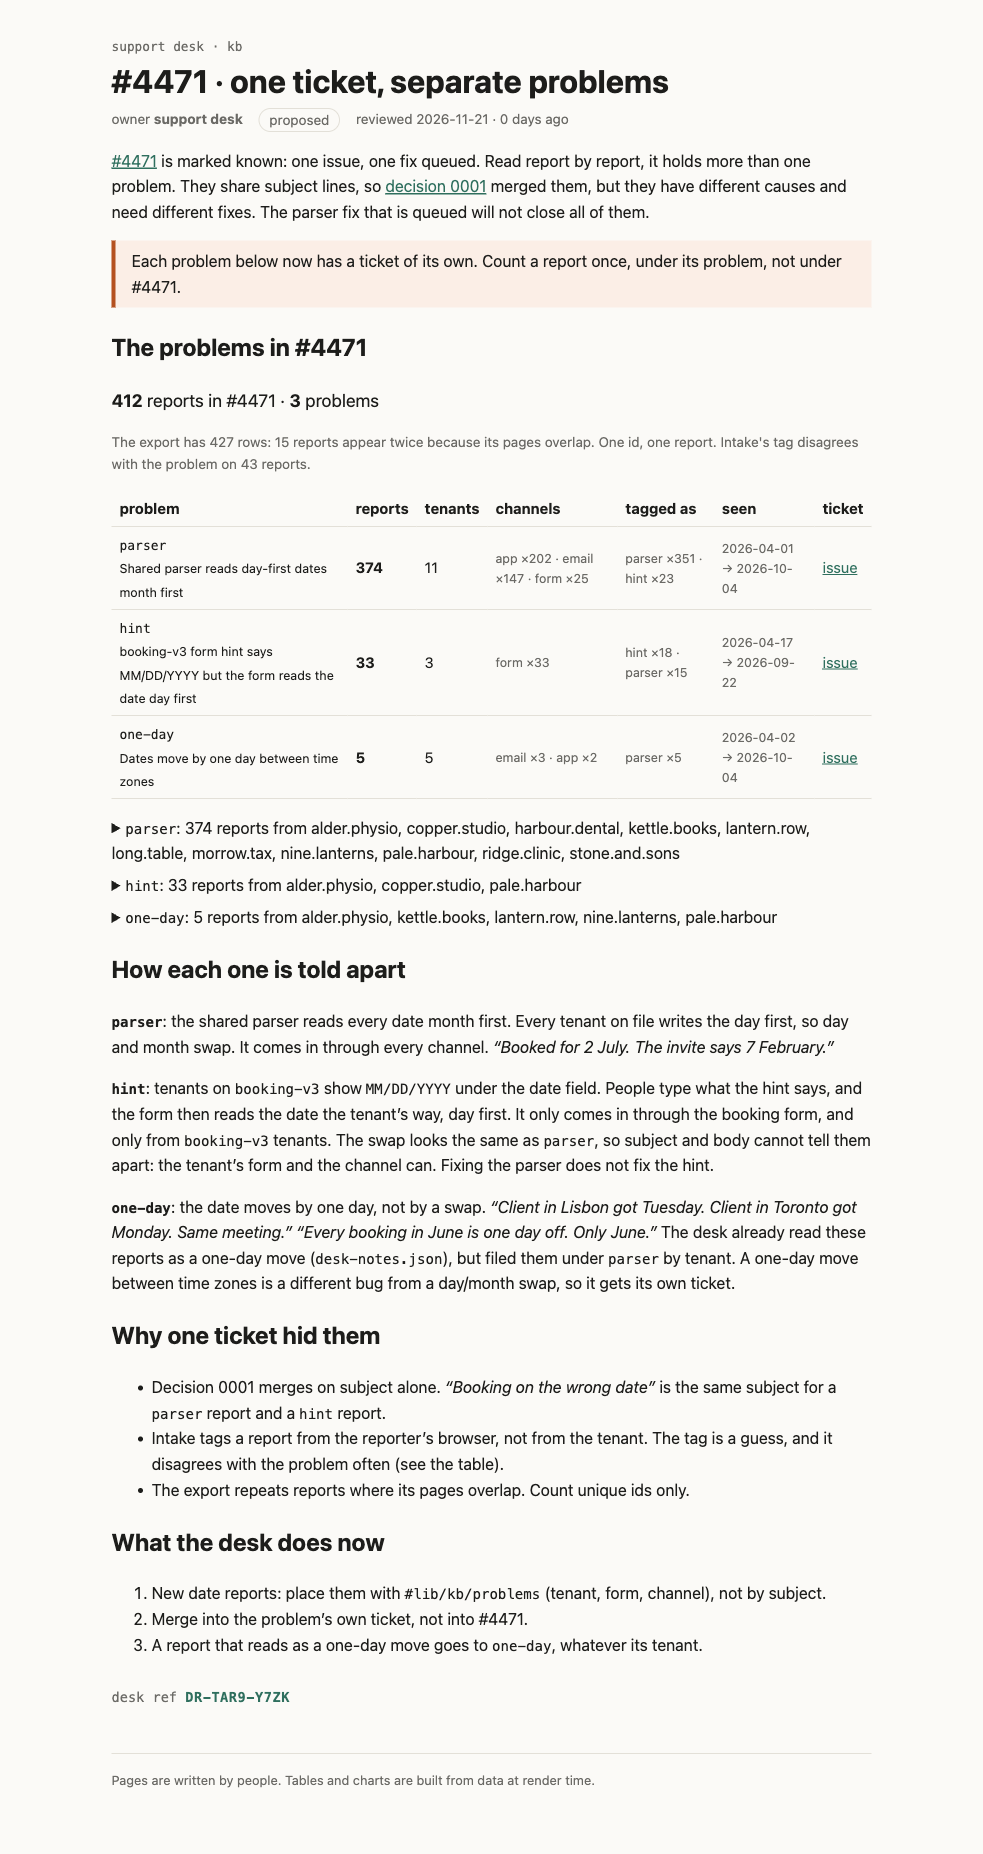
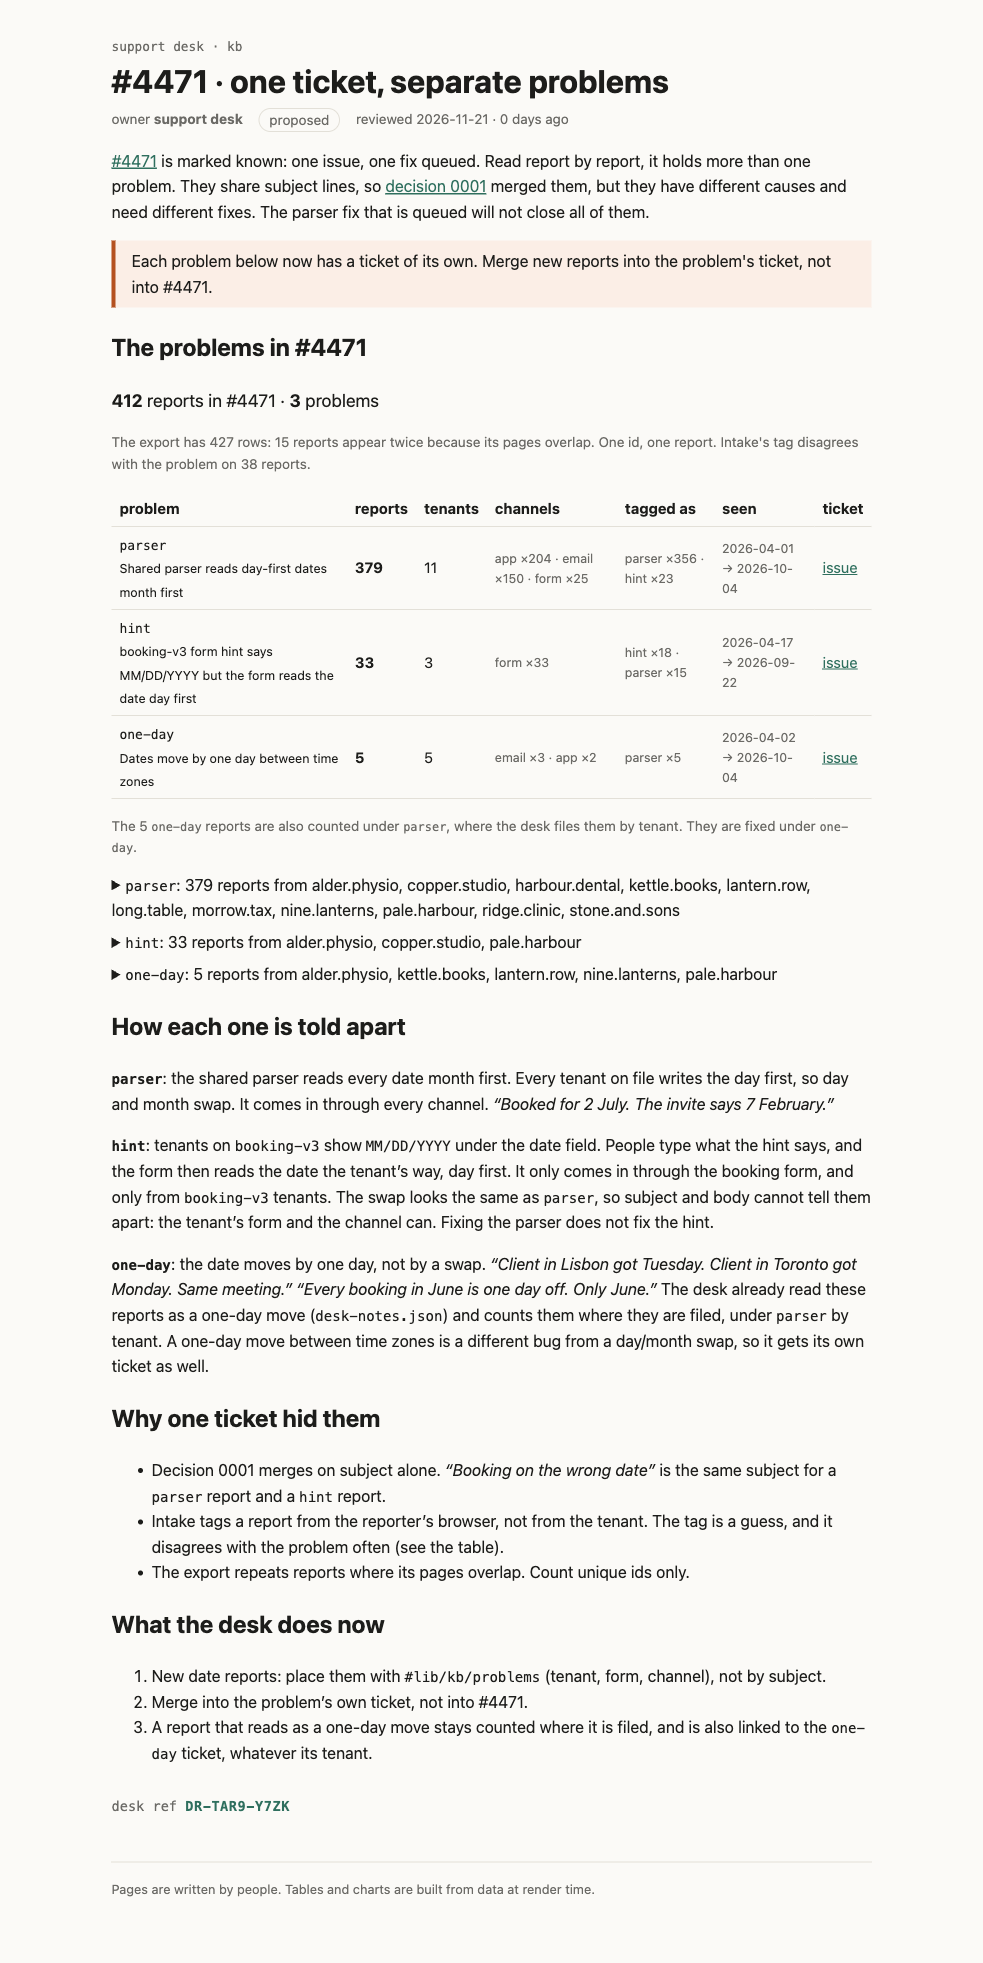
Count the one-day reports where the desk files them
The desk's own view counts the five one-day reports under parser by tenant
and footnotes them, so parser covers 379 and one-day lists the same five.

diff --git a/desk-view/kb/incidents/4471-split.html b/desk-view/kb/incidents/4471-split.html
@@ -25,8 +25,9 @@
   <body>
     <div style="display: contents"><!--[--><!--[0--><!--[--><!--[--><div class="kb svelte-e2jw2j"><header><a class="crumb svelte-e2jw2j" href="https://github.com/aXenDeveloper/s01e03-what-it-shows/tree/main/src/routes/kb">support desk · kb</a> <h1 class="svelte-e2jw2j">#4471 · one ticket, separate problems</h1> <p class="meta svelte-e2jw2j"><span>owner <b>support desk</b></span> <span class="status proposed svelte-e2jw2j">proposed</span> <span class="svelte-e2jw2j">reviewed 2026-11-21 · 0 days ago</span></p></header> <!--[-1--><!--]--> <main><p><a href="https://github.com/aXenDeveloper/s01e03-what-it-shows/tree/main/src/routes/kb/incidents/4471">#4471</a> is marked known: one issue, one fix queued. Read report by report, it holds
 more than one problem. They share subject lines, so <a href="https://github.com/aXenDeveloper/s01e03-what-it-shows/tree/main/src/routes/kb/decisions/0001-dedupe-by-subject">decision 0001</a> merged them, but they have different causes and need different fixes. The parser fix that is queued
-will not close all of them.</p> <aside class="warn svelte-17bri61"><!---->Each problem below now has a ticket of its own. Count a report once, under its problem, not under #4471.<!----></aside><!----> <h2>The problems in #4471</h2> <p class="sum svelte-1op6c6"><strong>412</strong> reports in #4471 · <strong>3</strong> problems</p> <p class="note svelte-1op6c6">The export has 427 rows: 15 reports appear twice because its pages overlap. One id, one report.
-  Intake's tag disagrees with the problem on 43 reports.</p> <table><thead><tr><th>problem</th><th>reports</th><th>tenants</th><th>channels</th><th>tagged as</th><th>seen</th><th>ticket</th></tr></thead><tbody><!--[--><tr><td><code>parser</code><br/><span class="title svelte-1op6c6">Shared parser reads day-first dates month first</span></td><td><strong>374</strong></td><td>11</td><td class="muted svelte-1op6c6">app ×202 · email ×147 · form ×25</td><td class="muted svelte-1op6c6">parser ×351 · hint ×23</td><td class="muted svelte-1op6c6">2026-04-01 → 2026-10-04</td><td><!--[0--><a href="https://github.com/aXenDeveloper/s01e03-what-it-shows/issues/1">issue</a><!--]--></td></tr><tr><td><code>hint</code><br/><span class="title svelte-1op6c6">booking-v3 form hint says MM/DD/YYYY but the form reads the date day first</span></td><td><strong>33</strong></td><td>3</td><td class="muted svelte-1op6c6">form ×33</td><td class="muted svelte-1op6c6">hint ×18 · parser ×15</td><td class="muted svelte-1op6c6">2026-04-17 → 2026-09-22</td><td><!--[0--><a href="https://github.com/aXenDeveloper/s01e03-what-it-shows/issues/2">issue</a><!--]--></td></tr><tr><td><code>one-day</code><br/><span class="title svelte-1op6c6">Dates move by one day between time zones</span></td><td><strong>5</strong></td><td>5</td><td class="muted svelte-1op6c6">email ×3 · app ×2</td><td class="muted svelte-1op6c6">parser ×5</td><td class="muted svelte-1op6c6">2026-04-02 → 2026-10-04</td><td><!--[0--><a href="https://github.com/aXenDeveloper/s01e03-what-it-shows/issues/3">issue</a><!--]--></td></tr><!--]--></tbody></table> <!--[--><details class="svelte-1op6c6"><summary><code>parser</code>: 374 reports from alder.physio, copper.studio, harbour.dental, kettle.books, lantern.row, long.table, morrow.tax, nine.lanterns, pale.harbour, ridge.clinic, stone.and.sons</summary> <p class="ids svelte-1op6c6">R-41200 R-41201 R-41203 R-41204 R-41205 R-41206 R-41208 R-41210 R-41211 R-41212 R-41213 R-41214 R-41215 R-41216 R-41217 R-41218 R-41219 R-41220 R-41221 R-41222 R-41223 R-41224 R-41225 R-41227 R-41228 R-41229 R-41231 R-41232 R-41233 R-41234 R-41235 R-41237 R-41238 R-41239 R-41240 R-41242 R-41243 R-41244 R-41245 R-41246 R-41247 R-41248 R-41249 R-41250 R-41252 R-41253 R-41254 R-41255 R-41256 R-41257 R-41258 R-41260 R-41261 R-41263 R-41264 R-41265 R-41266 R-41267 R-41268 R-41269 R-41270 R-41271 R-41272 R-41273 R-41274 R-41276 R-41277 R-41278 R-41279 R-41280 R-41281 R-41282 R-41283 R-41284 R-41285 R-41286 R-41287 R-41288 R-41289 R-41290 R-41291 R-41292 R-41293 R-41295 R-41296 R-41297 R-41298 R-41299 R-41300 R-41301 R-41302 R-41303 R-41304 R-41306 R-41309 R-41310 R-41311 R-41312 R-41313 R-41314 R-41315 R-41316 R-41317 R-41318 R-41319 R-41320 R-41321 R-41322 R-41323 R-41324 R-41325 R-41327 R-41328 R-41329 R-41330 R-41331 R-41332 R-41333 R-41334 R-41335 R-41336 R-41337 R-41338 R-41339 R-41340 R-41341 R-41342 R-41343 R-41345 R-41346 R-41347 R-41348 R-41349 R-41350 R-41351 R-41352 R-41353 R-41354 R-41355 R-41356 R-41357 R-41358 R-41359 R-41360 R-41361 R-41362 R-41363 R-41364 R-41365 R-41367 R-41368 R-41369 R-41370 R-41371 R-41373 R-41374 R-41375 R-41376 R-41377 R-41378 R-41379 R-41380 R-41381 R-41382 R-41383 R-41385 R-41386 R-41388 R-41389 R-41390 R-41391 R-41392 R-41393 R-41394 R-41395 R-41397 R-41398 R-41399 R-41401 R-41402 R-41403 R-41404 R-41405 R-41408 R-41409 R-41410 R-41411 R-41412 R-41413 R-41414 R-41417 R-41419 R-41420 R-41421 R-41422 R-41423 R-41424 R-41425 R-41427 R-41429 R-41430 R-41431 R-41432 R-41433 R-41434 R-41435 R-41436 R-41437 R-41438 R-41440 R-41442 R-41443 R-41444 R-41445 R-41446 R-41447 R-41448 R-41450 R-41451 R-41452 R-41454 R-41455 R-41457 R-41458 R-41459 R-41461 R-41462 R-41463 R-41464 R-41465 R-41466 R-41467 R-41468 R-41469 R-41470 R-41471 R-41473 R-41474 R-41475 R-41476 R-41477 R-41478 R-41479 R-41480 R-41481 R-41482 R-41483 R-41484 R-41486 R-41487 R-41488 R-41489 R-41490 R-41491 R-41492 R-41494 R-41495 R-41496 R-41497 R-41498 R-41499 R-41500 R-41501 R-41502 R-41503 R-41504 R-41505 R-41506 R-41508 R-41509 R-41510 R-41511 R-41512 R-41513 R-41514 R-41515 R-41516 R-41517 R-41518 R-41519 R-41520 R-41521 R-41522 R-41523 R-41524 R-41525 R-41527 R-41528 R-41529 R-41530 R-41531 R-41532 R-41533 R-41534 R-41535 R-41536 R-41537 R-41538 R-41540 R-41541 R-41542 R-41543 R-41544 R-41545 R-41546 R-41547 R-41548 R-41549 R-41550 R-41551 R-41552 R-41553 R-41554 R-41555 R-41556 R-41557 R-41558 R-41559 R-41560 R-41561 R-41562 R-41563 R-41564 R-41565 R-41566 R-41567 R-41568 R-41569 R-41570 R-41571 R-41573 R-41574 R-41575 R-41576 R-41577 R-41578 R-41579 R-41580 R-41581 R-41583 R-41585 R-41586 R-41587 R-41588 R-41589 R-41590 R-41591 R-41592 R-41593 R-41594 R-41595 R-41596 R-41597 R-41598 R-41599 R-41600 R-41601 R-41602 R-41603 R-41604 R-41605 R-41606 R-41608 R-41609 R-41610 R-41611 R-41612 R-41613 R-41614 R-41615 R-41616 R-41617 R-41618 R-41619</p></details><details class="svelte-1op6c6"><summary><code>hint</code>: 33 reports from alder.physio, copper.studio, pale.harbour</summary> <p class="ids svelte-1op6c6">R-41230 R-41241 R-41251 R-41259 R-41262 R-41275 R-41294 R-41305 R-41308 R-41366 R-41372 R-41384 R-41387 R-41396 R-41400 R-41406 R-41415 R-41416 R-41418 R-41428 R-41439 R-41441 R-41449 R-41453 R-41456 R-41460 R-41472 R-41485 R-41493 R-41539 R-41572 R-41582 R-41584</p></details><details class="svelte-1op6c6"><summary><code>one-day</code>: 5 reports from alder.physio, kettle.books, lantern.row, nine.lanterns, pale.harbour</summary> <p class="ids svelte-1op6c6">R-41202 R-41209 R-41236 R-41344 R-41620</p></details><!--]--><!----> <h2>How each one is told apart</h2> <p><strong><code>parser</code></strong>: the shared parser reads every date month first. Every tenant on file writes the day
+will not close all of them.</p> <aside class="warn svelte-17bri61"><!---->Each problem below now has a ticket of its own. Merge new reports into the problem's ticket, not into #4471.<!----></aside><!----> <h2>The problems in #4471</h2> <p class="sum svelte-1op6c6"><strong>412</strong> reports in #4471 · <strong>3</strong> problems</p> <p class="note svelte-1op6c6">The export has 427 rows: 15 reports appear twice because its pages overlap. One id, one report.
+  Intake's tag disagrees with the problem on 38 reports.</p> <table><thead><tr><th>problem</th><th>reports</th><th>tenants</th><th>channels</th><th>tagged as</th><th>seen</th><th>ticket</th></tr></thead><tbody><!--[--><tr><td><code>parser</code><br/><span class="title svelte-1op6c6">Shared parser reads day-first dates month first</span></td><td><strong>379</strong></td><td>11</td><td class="muted svelte-1op6c6">app ×204 · email ×150 · form ×25</td><td class="muted svelte-1op6c6">parser ×356 · hint ×23</td><td class="muted svelte-1op6c6">2026-04-01 → 2026-10-04</td><td><!--[0--><a href="https://github.com/aXenDeveloper/s01e03-what-it-shows/issues/1">issue</a><!--]--></td></tr><tr><td><code>hint</code><br/><span class="title svelte-1op6c6">booking-v3 form hint says MM/DD/YYYY but the form reads the date day first</span></td><td><strong>33</strong></td><td>3</td><td class="muted svelte-1op6c6">form ×33</td><td class="muted svelte-1op6c6">hint ×18 · parser ×15</td><td class="muted svelte-1op6c6">2026-04-17 → 2026-09-22</td><td><!--[0--><a href="https://github.com/aXenDeveloper/s01e03-what-it-shows/issues/2">issue</a><!--]--></td></tr><tr><td><code>one-day</code><br/><span class="title svelte-1op6c6">Dates move by one day between time zones</span></td><td><strong>5</strong></td><td>5</td><td class="muted svelte-1op6c6">email ×3 · app ×2</td><td class="muted svelte-1op6c6">parser ×5</td><td class="muted svelte-1op6c6">2026-04-02 → 2026-10-04</td><td><!--[0--><a href="https://github.com/aXenDeveloper/s01e03-what-it-shows/issues/3">issue</a><!--]--></td></tr><!--]--></tbody></table> <!--[--><!--[--><!--]--><!--[--><!--]--><!--[--><p class="note svelte-1op6c6">The 5 <code>one-day</code> reports are also counted under <code>parser</code>, where the desk files them by
+      tenant. They are fixed under <code>one-day</code>.</p><!--]--><!--]--> <!--[--><details class="svelte-1op6c6"><summary><code>parser</code>: 379 reports from alder.physio, copper.studio, harbour.dental, kettle.books, lantern.row, long.table, morrow.tax, nine.lanterns, pale.harbour, ridge.clinic, stone.and.sons</summary> <p class="ids svelte-1op6c6">R-41200 R-41201 R-41202 R-41203 R-41204 R-41205 R-41206 R-41208 R-41209 R-41210 R-41211 R-41212 R-41213 R-41214 R-41215 R-41216 R-41217 R-41218 R-41219 R-41220 R-41221 R-41222 R-41223 R-41224 R-41225 R-41227 R-41228 R-41229 R-41231 R-41232 R-41233 R-41234 R-41235 R-41236 R-41237 R-41238 R-41239 R-41240 R-41242 R-41243 R-41244 R-41245 R-41246 R-41247 R-41248 R-41249 R-41250 R-41252 R-41253 R-41254 R-41255 R-41256 R-41257 R-41258 R-41260 R-41261 R-41263 R-41264 R-41265 R-41266 R-41267 R-41268 R-41269 R-41270 R-41271 R-41272 R-41273 R-41274 R-41276 R-41277 R-41278 R-41279 R-41280 R-41281 R-41282 R-41283 R-41284 R-41285 R-41286 R-41287 R-41288 R-41289 R-41290 R-41291 R-41292 R-41293 R-41295 R-41296 R-41297 R-41298 R-41299 R-41300 R-41301 R-41302 R-41303 R-41304 R-41306 R-41309 R-41310 R-41311 R-41312 R-41313 R-41314 R-41315 R-41316 R-41317 R-41318 R-41319 R-41320 R-41321 R-41322 R-41323 R-41324 R-41325 R-41327 R-41328 R-41329 R-41330 R-41331 R-41332 R-41333 R-41334 R-41335 R-41336 R-41337 R-41338 R-41339 R-41340 R-41341 R-41342 R-41343 R-41344 R-41345 R-41346 R-41347 R-41348 R-41349 R-41350 R-41351 R-41352 R-41353 R-41354 R-41355 R-41356 R-41357 R-41358 R-41359 R-41360 R-41361 R-41362 R-41363 R-41364 R-41365 R-41367 R-41368 R-41369 R-41370 R-41371 R-41373 R-41374 R-41375 R-41376 R-41377 R-41378 R-41379 R-41380 R-41381 R-41382 R-41383 R-41385 R-41386 R-41388 R-41389 R-41390 R-41391 R-41392 R-41393 R-41394 R-41395 R-41397 R-41398 R-41399 R-41401 R-41402 R-41403 R-41404 R-41405 R-41408 R-41409 R-41410 R-41411 R-41412 R-41413 R-41414 R-41417 R-41419 R-41420 R-41421 R-41422 R-41423 R-41424 R-41425 R-41427 R-41429 R-41430 R-41431 R-41432 R-41433 R-41434 R-41435 R-41436 R-41437 R-41438 R-41440 R-41442 R-41443 R-41444 R-41445 R-41446 R-41447 R-41448 R-41450 R-41451 R-41452 R-41454 R-41455 R-41457 R-41458 R-41459 R-41461 R-41462 R-41463 R-41464 R-41465 R-41466 R-41467 R-41468 R-41469 R-41470 R-41471 R-41473 R-41474 R-41475 R-41476 R-41477 R-41478 R-41479 R-41480 R-41481 R-41482 R-41483 R-41484 R-41486 R-41487 R-41488 R-41489 R-41490 R-41491 R-41492 R-41494 R-41495 R-41496 R-41497 R-41498 R-41499 R-41500 R-41501 R-41502 R-41503 R-41504 R-41505 R-41506 R-41508 R-41509 R-41510 R-41511 R-41512 R-41513 R-41514 R-41515 R-41516 R-41517 R-41518 R-41519 R-41520 R-41521 R-41522 R-41523 R-41524 R-41525 R-41527 R-41528 R-41529 R-41530 R-41531 R-41532 R-41533 R-41534 R-41535 R-41536 R-41537 R-41538 R-41540 R-41541 R-41542 R-41543 R-41544 R-41545 R-41546 R-41547 R-41548 R-41549 R-41550 R-41551 R-41552 R-41553 R-41554 R-41555 R-41556 R-41557 R-41558 R-41559 R-41560 R-41561 R-41562 R-41563 R-41564 R-41565 R-41566 R-41567 R-41568 R-41569 R-41570 R-41571 R-41573 R-41574 R-41575 R-41576 R-41577 R-41578 R-41579 R-41580 R-41581 R-41583 R-41585 R-41586 R-41587 R-41588 R-41589 R-41590 R-41591 R-41592 R-41593 R-41594 R-41595 R-41596 R-41597 R-41598 R-41599 R-41600 R-41601 R-41602 R-41603 R-41604 R-41605 R-41606 R-41608 R-41609 R-41610 R-41611 R-41612 R-41613 R-41614 R-41615 R-41616 R-41617 R-41618 R-41619 R-41620</p></details><details class="svelte-1op6c6"><summary><code>hint</code>: 33 reports from alder.physio, copper.studio, pale.harbour</summary> <p class="ids svelte-1op6c6">R-41230 R-41241 R-41251 R-41259 R-41262 R-41275 R-41294 R-41305 R-41308 R-41366 R-41372 R-41384 R-41387 R-41396 R-41400 R-41406 R-41415 R-41416 R-41418 R-41428 R-41439 R-41441 R-41449 R-41453 R-41456 R-41460 R-41472 R-41485 R-41493 R-41539 R-41572 R-41582 R-41584</p></details><details class="svelte-1op6c6"><summary><code>one-day</code>: 5 reports from alder.physio, kettle.books, lantern.row, nine.lanterns, pale.harbour</summary> <p class="ids svelte-1op6c6">R-41202 R-41209 R-41236 R-41344 R-41620</p></details><!--]--><!----> <h2>How each one is told apart</h2> <p><strong><code>parser</code></strong>: the shared parser reads every date month first. Every tenant on file writes the day
 first, so day and month swap. It comes in through every channel. <em>“Booked for 2 July. The invite says
 7 February.”</em></p> <p><strong><code>hint</code></strong>: tenants on <code>booking-v3</code> show <code>MM/DD/YYYY</code> under the date field. People type what the hint
 says, and the form then reads the date the tenant’s way, day first. It only comes in through the
@@ -34,10 +35,10 @@ booking form, and only from <code>booking-v3</code> tenants. The swap looks the 
 body cannot tell them apart: the tenant’s form and the channel can. Fixing the parser does not fix the
 hint.</p> <p><strong><code>one-day</code></strong>: the date moves by one day, not by a swap. <em>“Client in Lisbon got Tuesday. Client in
 Toronto got Monday. Same meeting.”</em> <em>“Every booking in June is one day off. Only June.”</em> The desk
-already read these reports as a one-day move (<code>desk-notes.json</code>), but filed them under <code>parser</code> by
-tenant. A one-day move between time zones is a different bug from a day/month swap, so it gets its own
-ticket.</p> <h2>Why one ticket hid them</h2> <ul><li>Decision 0001 merges on subject alone. <em>“Booking on the wrong date”</em> is the same subject for a <code>parser</code> report and a <code>hint</code> report.</li> <li>Intake tags a report from the reporter’s browser, not from the tenant. The tag is a guess, and it
-disagrees with the problem often (see the table).</li> <li>The export repeats reports where its pages overlap. Count unique ids only.</li></ul> <h2>What the desk does now</h2> <ol><li>New date reports: place them with <code>#lib/kb/problems</code> (tenant, form, channel), not by subject.</li> <li>Merge into the problem’s own ticket, not into #4471.</li> <li>A report that reads as a one-day move goes to <code>one-day</code>, whatever its tenant.</li></ol> <!--[0--><p class="stamp svelte-1280m42">desk ref <b class="svelte-1280m42">DR-TAR9-Y7ZK</b></p><!--]--><!----><!----></main> <footer class="svelte-e2jw2j">Pages are written by people. Tables and charts are built from data at render time.</footer></div><!--]--><!----><!--]--><!--]--> <!--[-1--><!--]--><!--]-->
+already read these reports as a one-day move (<code>desk-notes.json</code>) and counts them where they are filed,
+under <code>parser</code> by tenant. A one-day move between time zones is a different bug from a day/month swap,
+so it gets its own ticket as well.</p> <h2>Why one ticket hid them</h2> <ul><li>Decision 0001 merges on subject alone. <em>“Booking on the wrong date”</em> is the same subject for a <code>parser</code> report and a <code>hint</code> report.</li> <li>Intake tags a report from the reporter’s browser, not from the tenant. The tag is a guess, and it
+disagrees with the problem often (see the table).</li> <li>The export repeats reports where its pages overlap. Count unique ids only.</li></ul> <h2>What the desk does now</h2> <ol><li>New date reports: place them with <code>#lib/kb/problems</code> (tenant, form, channel), not by subject.</li> <li>Merge into the problem’s own ticket, not into #4471.</li> <li>A report that reads as a one-day move stays counted where it is filed, and is also linked to the <code>one-day</code> ticket, whatever its tenant.</li></ol> <!--[0--><p class="stamp svelte-1280m42">desk ref <b class="svelte-1280m42">DR-TAR9-Y7ZK</b></p><!--]--><!----><!----></main> <footer class="svelte-e2jw2j">Pages are written by people. Tables and charts are built from data at render time.</footer></div><!--]--><!----><!--]--><!--]--> <!--[-1--><!--]--><!--]-->
 			
 			
 		</div>

diff --git a/src/lib/kb/problems.ts b/src/lib/kb/problems.ts
@@ -19,9 +19,9 @@ export type ProblemGroup = {
   lastSeen: string;
 };
 
-export function problemOf(r: Report, t: Tenant | undefined, oneDayMove: readonly string[]): Problem {
-  if (oneDayMove.includes(r.id)) return 'one-day';
-  return causeOf(r, t) ?? 'unplaced';
+export function problemsOf(r: Report, t: Tenant | undefined, oneDayMove: readonly string[]): Problem[] {
+  const filed: Problem = causeOf(r, t) ?? 'unplaced';
+  return oneDayMove.includes(r.id) ? [filed, 'one-day'] : [filed];
 }
 
 const tally = (values: string[]) =>
@@ -40,8 +40,7 @@ export function groupByProblem(
 ): ProblemGroup[] {
   const byProblem = new Map<Problem, Report[]>();
   for (const r of reports) {
-    const p = problemOf(r, tenantOf(r), oneDayMove);
-    byProblem.set(p, [...(byProblem.get(p) ?? []), r]);
+    for (const p of problemsOf(r, tenantOf(r), oneDayMove)) byProblem.set(p, [...(byProblem.get(p) ?? []), r]);
   }
   return [...byProblem.entries()]
     .map(([problem, rs]) => {
@@ -59,6 +58,16 @@ export function groupByProblem(
     .sort((a, b) => b.reports.length - a.reports.length);
 }
 
+export const isFiled = (g: ProblemGroup) => g.problem !== 'one-day';
+
 export function intakeMisses(groups: ProblemGroup[]): number {
-  return groups.reduce((n, g) => n + g.reports.filter((r) => r.meta.intakeTag !== g.problem).length, 0);
+  return groups.filter(isFiled).reduce((n, g) => n + g.reports.filter((r) => r.meta.intakeTag !== g.problem).length, 0);
+}
+
+export function alsoFiledUnder(g: ProblemGroup, groups: ProblemGroup[]): Record<string, number> {
+  if (isFiled(g)) return {};
+  const ids = new Set(g.reports.map((r) => r.id));
+  return Object.fromEntries(
+    groups.filter(isFiled).map((f) => [f.problem, f.reports.filter((r) => ids.has(r.id)).length] as const).filter(([, n]) => n > 0),
+  );
 }

diff --git a/src/lib/kb/ProblemTable.svelte b/src/lib/kb/ProblemTable.svelte
@@ -3,7 +3,7 @@
   import notes from '#lib/data/desk-notes.json';
   import type { Report } from '#lib/kb/causes';
   import { tenantOf } from '#lib/kb/locales';
-  import { PROBLEM_TITLES, groupByProblem, intakeMisses, mergedInto, type Problem } from '#lib/kb/problems';
+  import { PROBLEM_TITLES, alsoFiledUnder, groupByProblem, intakeMisses, mergedInto, type Problem } from '#lib/kb/problems';
 
   let { ticket, issues = {} }: { ticket: number; issues?: Partial<Record<Problem, string>> } = $props();
 
@@ -46,6 +46,15 @@
     {/each}
   </tbody>
 </table>
+
+{#each groups as g (g.problem)}
+  {#each Object.entries(alsoFiledUnder(g, groups)) as [filed, n] (filed)}
+    <p class="note">
+      The {n} <code>{g.problem}</code> reports are also counted under <code>{filed}</code>, where the desk files them by
+      tenant. They are fixed under <code>{g.problem}</code>.
+    </p>
+  {/each}
+{/each}
 
 {#each groups as g (g.problem)}
   <details>
